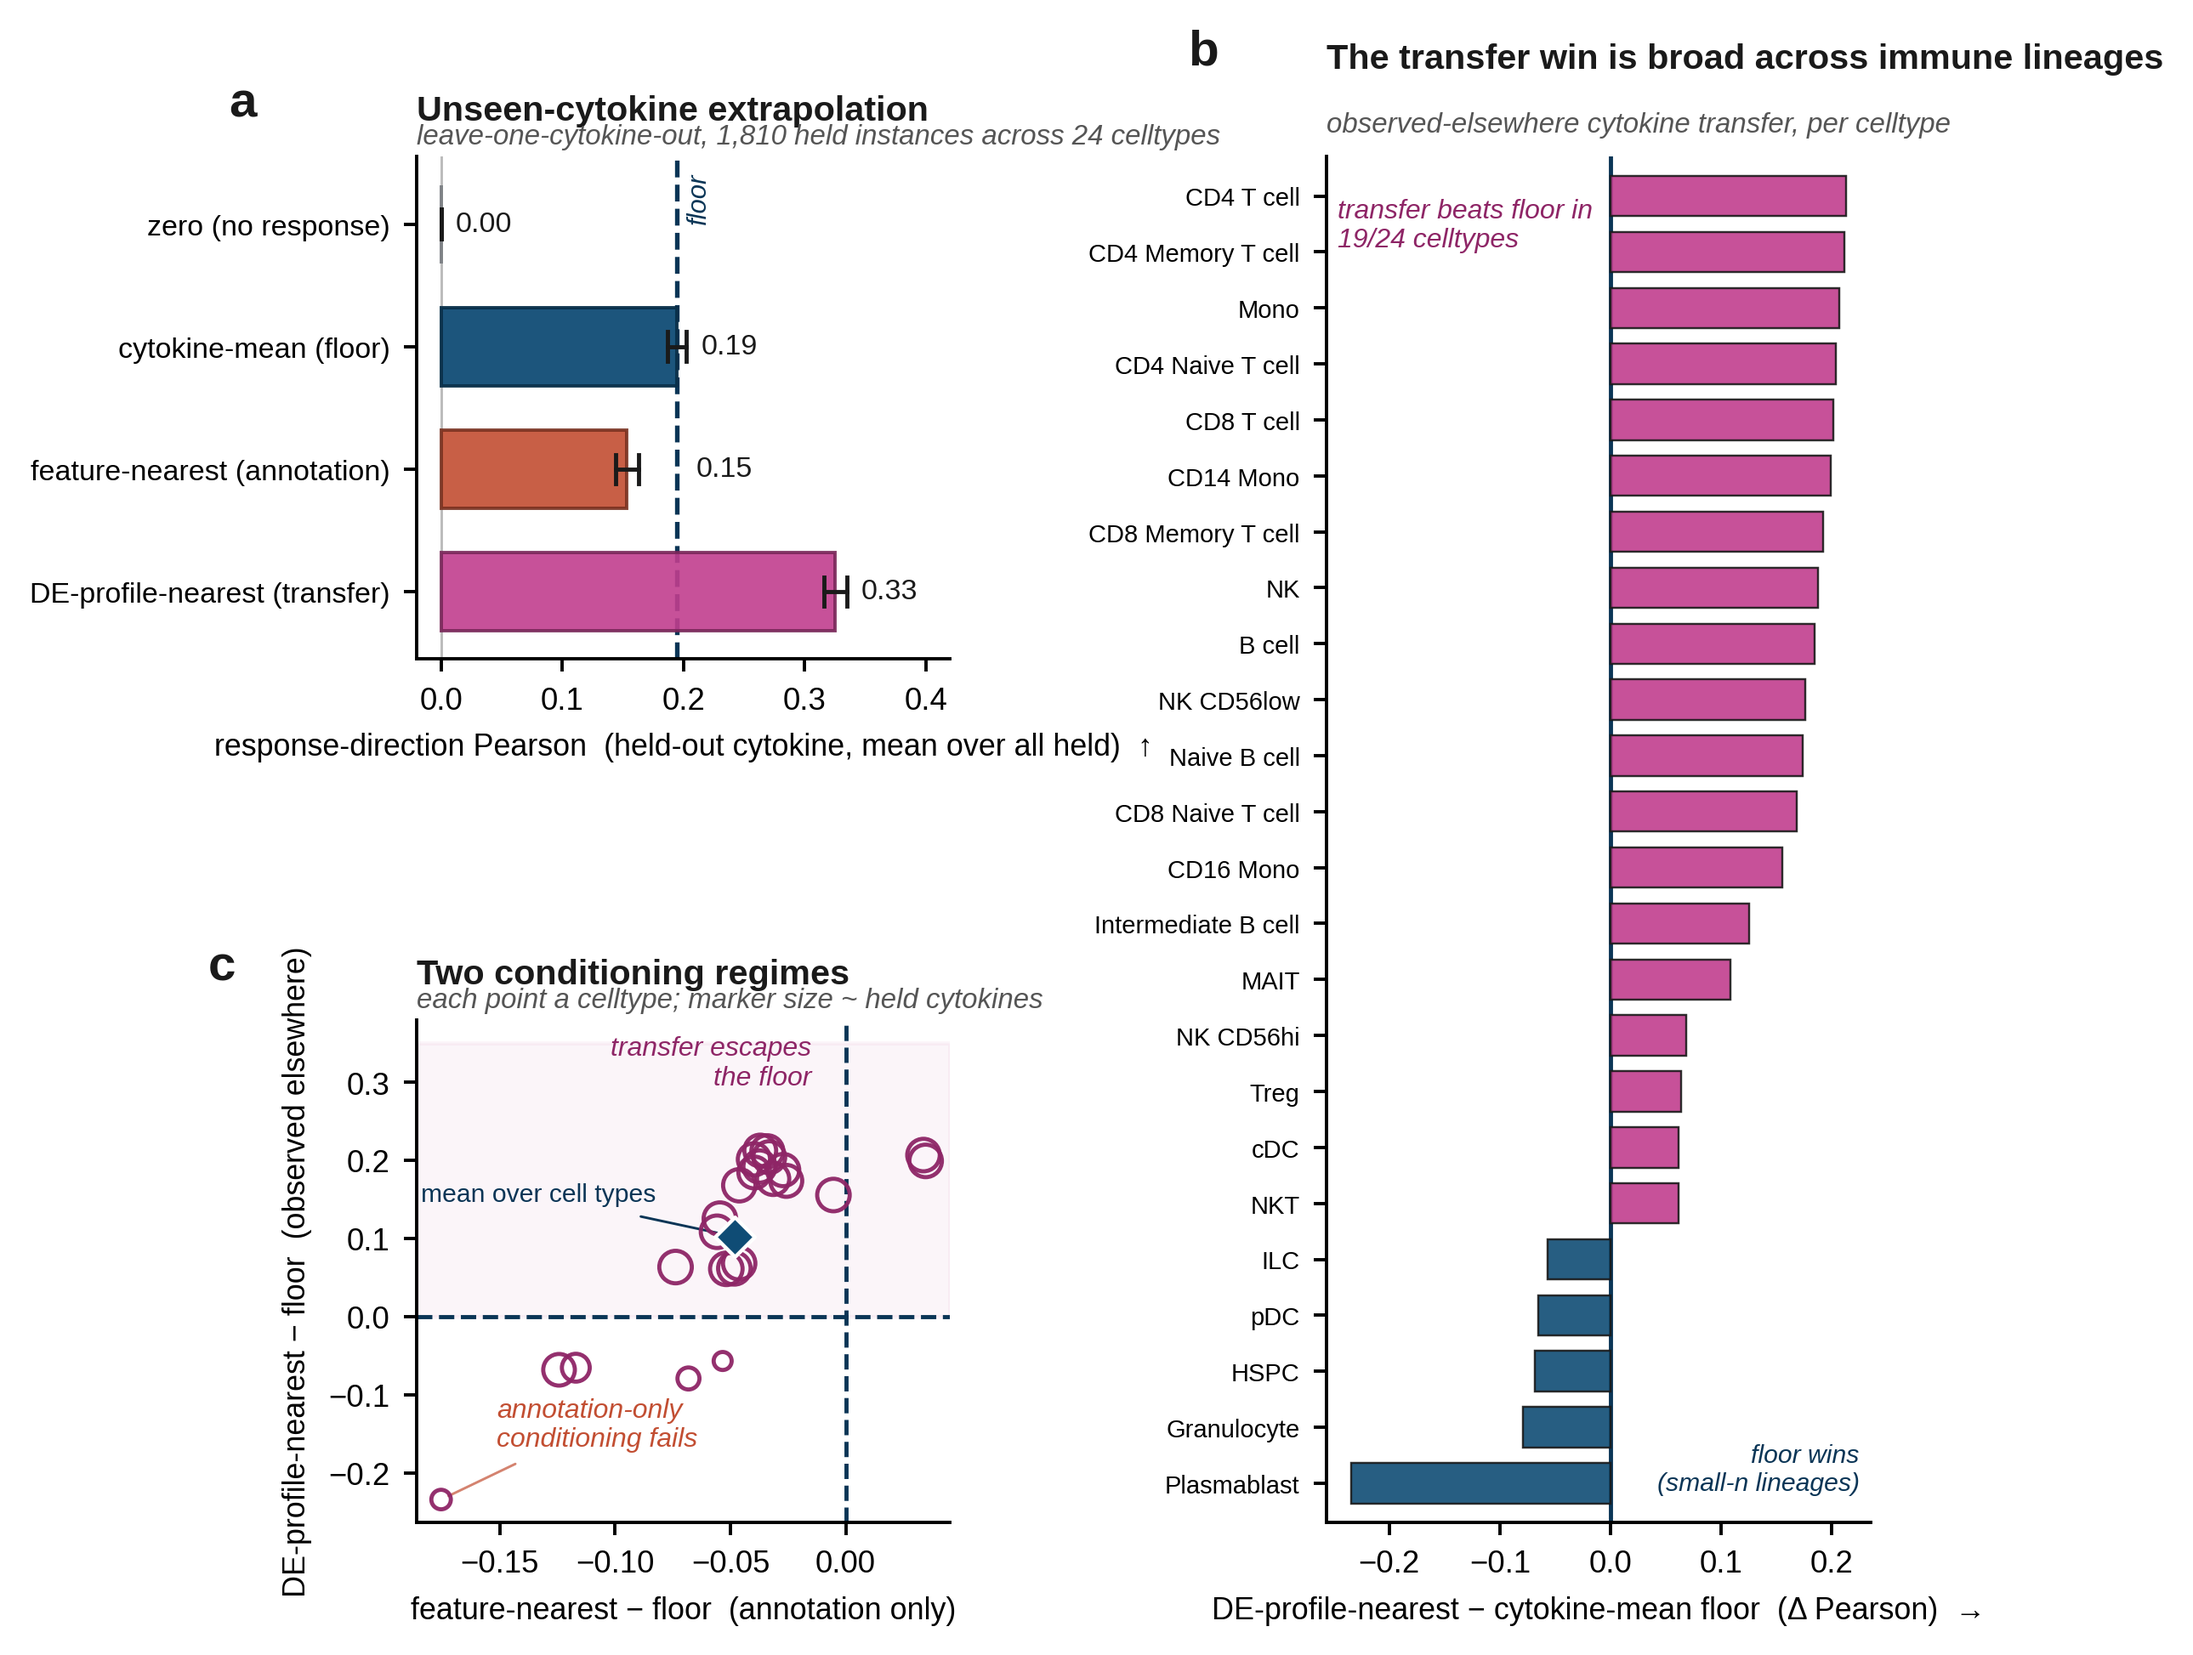
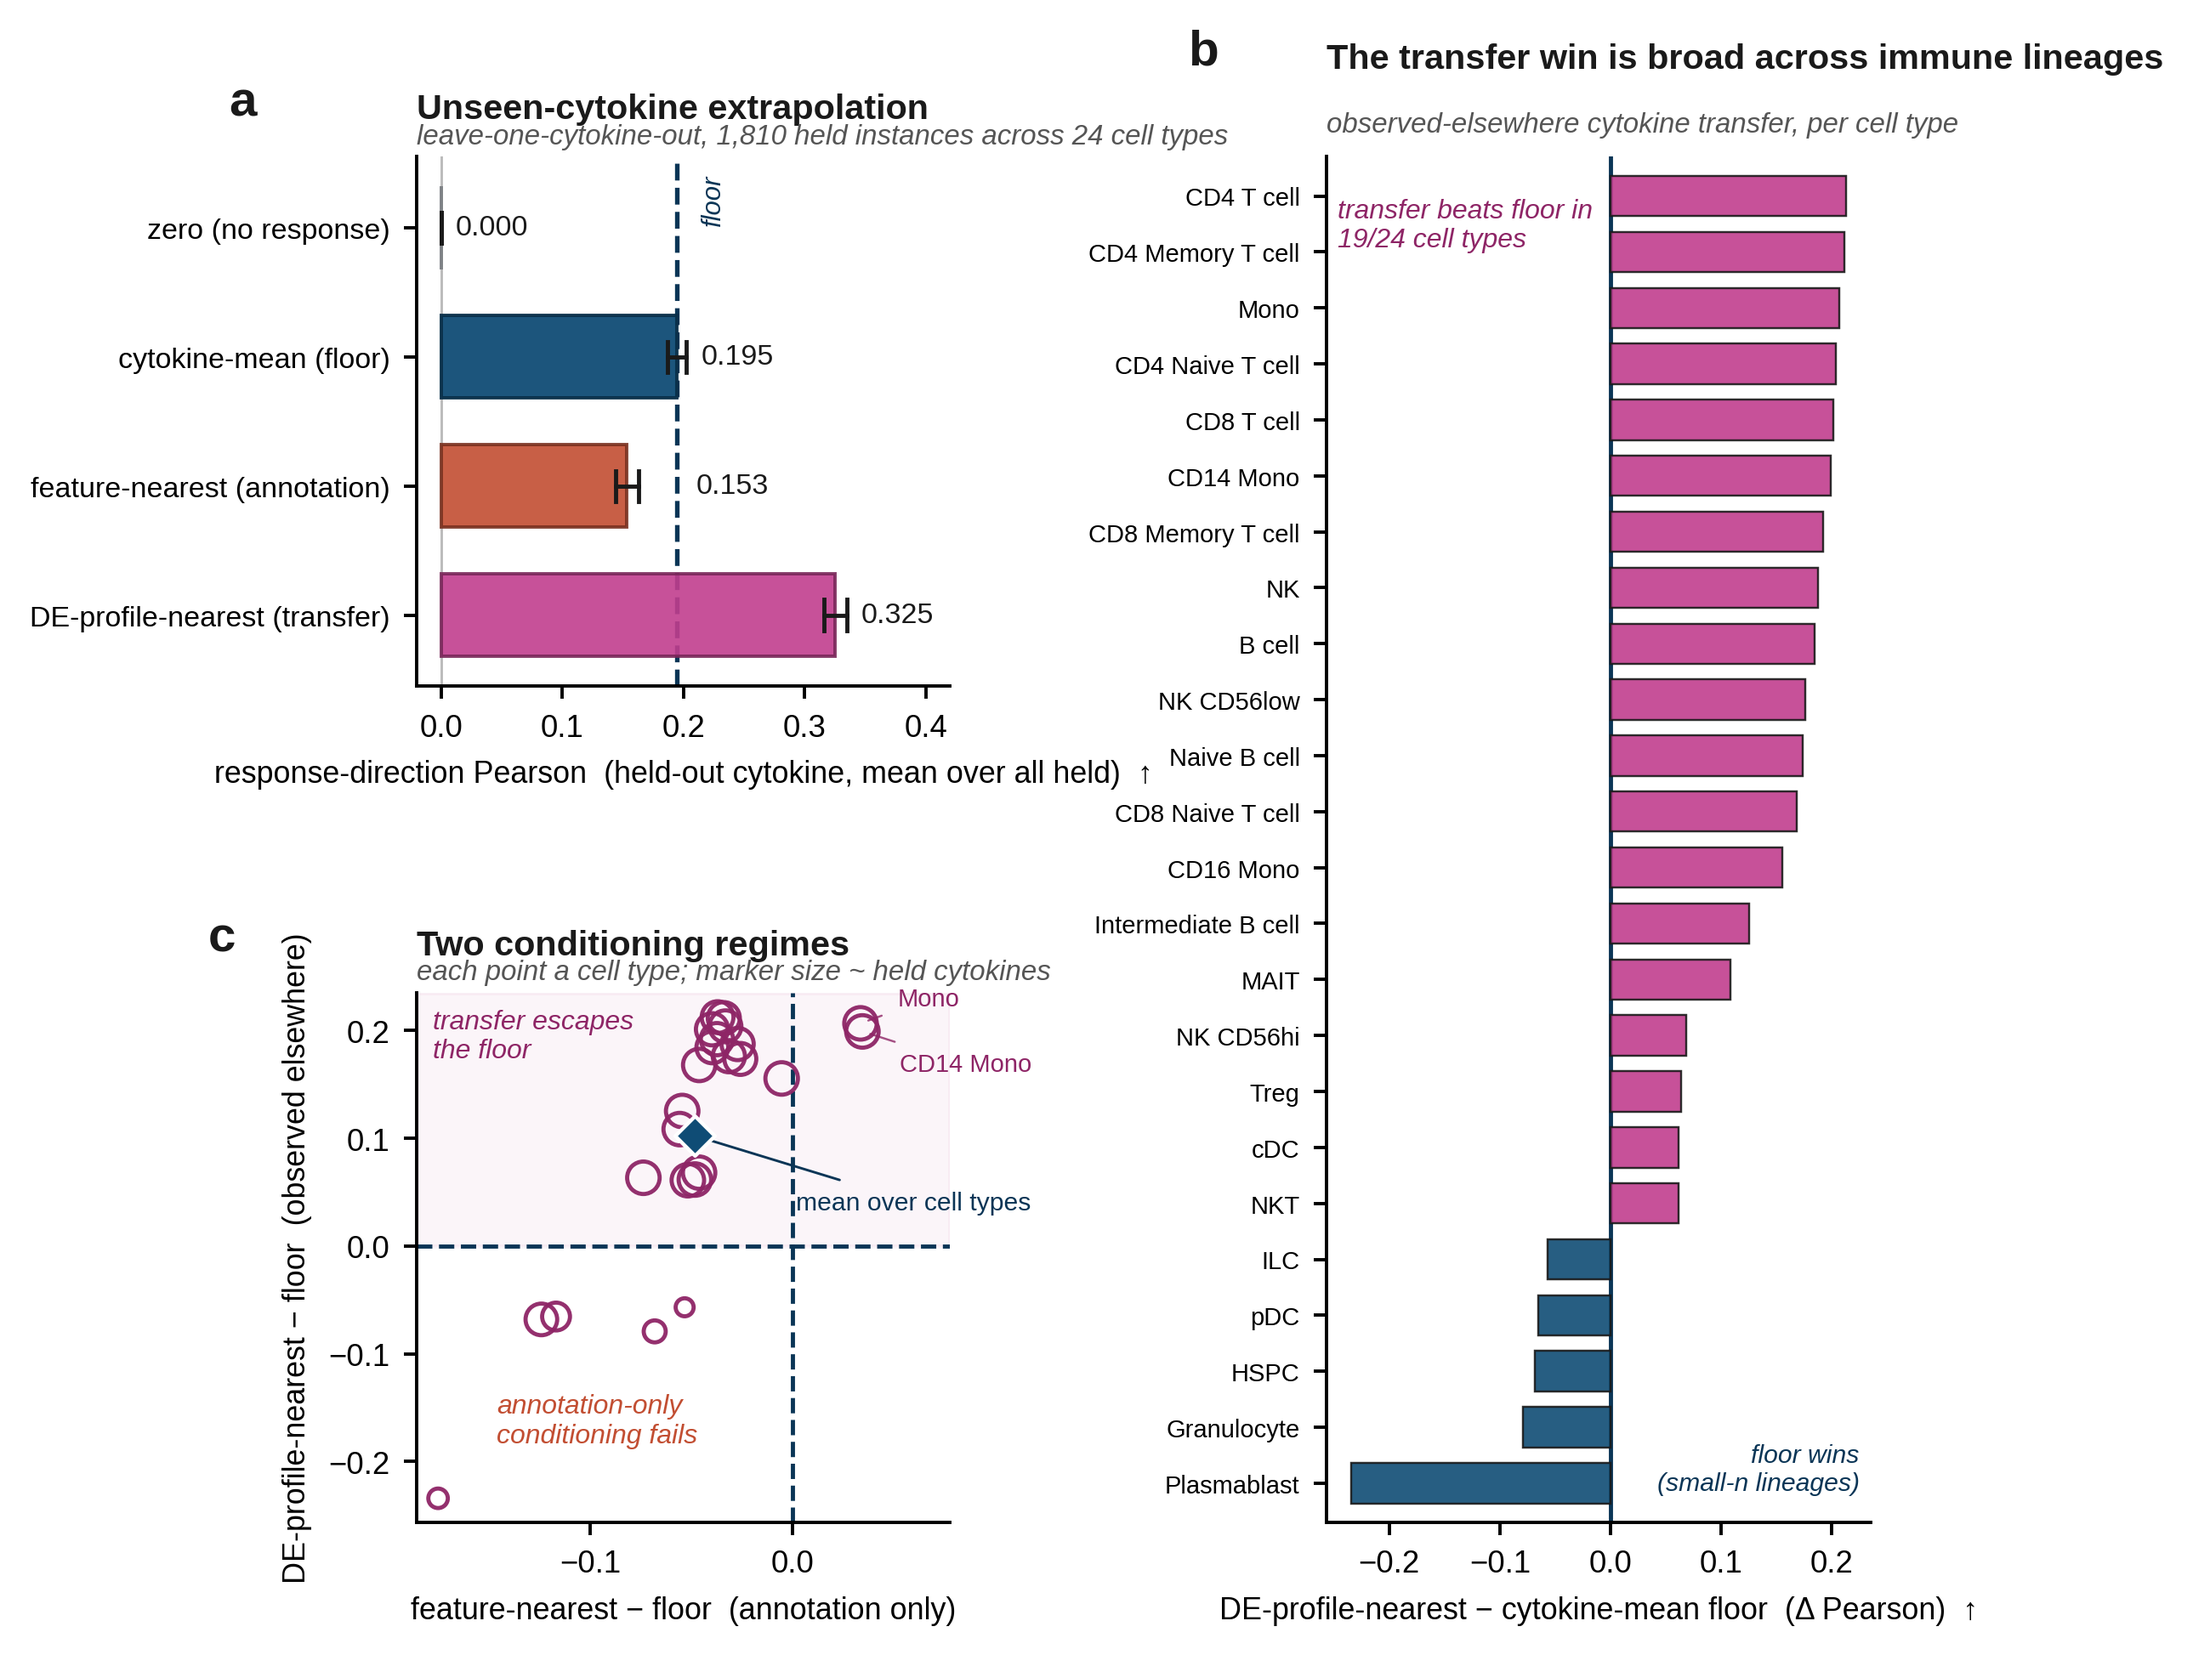
Figure S7: six places a reader could not read what the panel claims
Panel (c) states "2 of 24" cell types clear both floors. Those two are Mono
(+0.034, +0.207) and CD14 Mono (+0.035, +0.199) -- 0.0009 apart in x, 0.0075 in
y, and with 87 held cytokines each they draw at the same radius, so the pair
printed as one thick ring and the count could not be checked. Neither axis can
be dodged; the right limit is opened and both rings are named.

The orange leader for "annotation-only conditioning fails" ended on the single
Plasmablast outlier while the sentence describes the 22 of 24 points left of
zero. A quadrant label needs no leader, so it has none. The navy leader to the
mean diamond crossed the MAIT ring on its way; it now runs into empty space.

The pink quadrant band stopped at a hardcoded 0.35 inside axes that reach 0.38,
leaving a hard-edged white strip under a panel with no top spine -- an edge that
reads as a threshold. It is drawn to the axis limit.

Panel (a) printed the floor as 0.19 while the caption and the legend gate both
carry 0.195, and its rotated "floor" label started 1.6 pt from the rule it
names. Three decimals, and 4 pt of clearance.

hspace 0.72 left an 11% band of the left column empty beside a full-height
panel (b). The panels say "cell type" now, as the caption does, and panel (b)
marks better-is-higher with the same arrow panel (a) uses.

diff --git a/scripts/figure_newdata_cytokine_loco.py b/scripts/figure_newdata_cytokine_loco.py
@@ -79,7 +79,9 @@ def main():
     # shortening the panels would push both onto the axes -- the height stays.
     fig = plt.figure(figsize=(6.6, 5.4))
     gs = fig.add_gridspec(2, 2, width_ratios=[1.0, 1.02], height_ratios=[1.0, 1.0],
-                          wspace=0.70, hspace=0.72,
+                          # 0.72 left a 0.53 in strip of the left column completely empty
+                          # between (a) and (c) while (b) ran full height beside it.
+                          wspace=0.70, hspace=0.58,
                           left=0.245, right=0.985, top=0.925, bottom=0.075)
     axA = fig.add_subplot(gs[0, 0])     # pooled bars — top-left
     axC = fig.add_subplot(gs[1, 0])     # two conditioning regimes — bottom-left
@@ -115,11 +117,14 @@ def main():
         lab_x = max(hi, m) + 0.012
         if floor_m - 0.035 < lab_x < floor_m + 0.012:
             lab_x = floor_m + 0.016
-        axA.text(lab_x, y, _u(f"{m:.2f}"),
+        # Two decimals printed the floor as 0.19 against the caption's 0.195; three decimals is
+        # the project's rounding, and the widest label still ends 0.02 inside the right limit.
+        axA.text(lab_x, y, _u(f"{m:.3f}"),
                  va="center", ha="left",
                  fontsize=7.0, color=INK)  # _u here IS correct: a formatted, sign-sensitive number
     axA.axvline(floor_m, color=NAVY_DARK, lw=1.1, ls="--", zorder=2)
-    axA.text(floor_m + 0.008, len(rows) - 0.58, "floor", rotation=90, va="top", ha="left",
+    # +0.008 left 1.6 pt between the glyphs and the dashed rule, which reads as one object.
+    axA.text(floor_m + 0.020, len(rows) - 0.58, "floor", rotation=90, va="top", ha="left",
              fontsize=6.4, color=NAVY_DARK, style="italic")
     axA.axvline(0, color="#bbb", lw=0.6, zorder=1)
     # method names + axis text below are compound words (cytokine-mean, feature-nearest,
@@ -133,7 +138,7 @@ def main():
                    fontsize=7.4)
     panel_title(axA, "a", "Unseen-cytokine extrapolation",
                 sub=f"leave-one-cytokine-out, {summ['n_held_cytokine_instances']:,} held instances "
-                    f"across {summ['n_celltypes_tested']} celltypes", x_letter=-0.30)
+                    f"across {summ['n_celltypes_tested']} cell types", x_letter=-0.30)
     despine(axA)
 
     # ================= (b) per-celltype paired gap =================
@@ -154,13 +159,13 @@ def main():
     n_pos = int((pc["gap"] > 0).sum())
     # "−" here is a real subtraction (DE-profile-nearest minus the floor); the two method names
     # either side of it keep plain hyphens as compound words.
-    axB.set_xlabel("DE-profile-nearest − cytokine-mean floor  (Δ Pearson)  →",
+    axB.set_xlabel("DE-profile-nearest − cytokine-mean floor  (Δ Pearson)  ↑",
                    fontsize=7.4)
     # Each note goes beside the rows it describes, in the empty half of those rows. The winning
     # rows have bars running RIGHT from zero, so their free space is on the left; the losing rows
     # run left, so theirs is on the right. Putting both notes on one side, as before, meant one of
     # them always sat either on the bars or beside the wrong rows.
-    axB.text(0.02, 0.97, f"transfer beats floor in\n{n_pos}/{len(pc)} celltypes",
+    axB.text(0.02, 0.97, f"transfer beats floor in\n{n_pos}/{len(pc)} cell types",
              transform=axB.transAxes, ha="left", va="top", fontsize=6.6,
              color=CONDITIONED_DARK, style="italic")
     # It used to sit at y=0.96, beside CD4 T cell and CD4 Memory T cell -- the two largest
@@ -168,7 +173,7 @@ def main():
     axB.text(0.98, 0.02, "floor wins\n(small-n lineages)", transform=axB.transAxes,
              ha="right", va="bottom", fontsize=6.2, color=NAVY_DARK, style="italic")
     panel_title(axB, "b", "The transfer win is broad across immune lineages",
-                sub="observed-elsewhere cytokine transfer, per celltype", x_letter=-0.20)
+                sub="observed-elsewhere cytokine transfer, per cell type", x_letter=-0.20)
     despine(axB)
 
     # ================= (c) the two conditioning regimes =================
@@ -179,7 +184,9 @@ def main():
     axC.axhline(0, color=NAVY_DARK, lw=1.0, ls="--", zorder=1)
     axC.axvline(0, color=NAVY_DARK, lw=1.0, ls="--", zorder=1)
     # shaded quadrants
-    axC.axhspan(0, 0.35, xmin=0.0, xmax=1.0, color=CONDITIONED, alpha=0.05, zorder=0)
+    # 0.35 was a hardcoded top inside axes that reach 0.38, so a hard-edged white strip sat
+    # between the band and the panel top -- on a panel with no top spine, that edge reads as a
+    # threshold the data respects. The band is drawn after the data, to the axis limit.
     # Filled and near-opaque, two coincident cell types printed as one marker -- and the two that
     # clear the floor (CD14 Mono and Mono, 0.001 apart in x and 0.008 in y) are the caption's own
     # "2 of 24". A light fill with a solid edge keeps the size encoding and shows both rings.
@@ -191,26 +198,46 @@ def main():
                 linewidth=1.0, alpha=0.95, zorder=4)
     axC.scatter([np.mean(g_ft)], [np.mean(g_de)], marker="D", s=46, c=NAVY,
                 edgecolor="white", linewidth=0.9, zorder=6)
+    # Up and left, the leader crossed the MAIT ring on its way to the diamond. Down and right
+    # of the mean the panel is empty, so nothing is drawn over.
     axC.annotate("mean over cell types", xy=(np.mean(g_ft), np.mean(g_de)),
-                 xytext=(np.mean(g_ft) - 0.085, np.mean(g_de) + 0.045), fontsize=6.2,
-                 color=NAVY_DARK, ha="center",
+                 xytext=(np.mean(g_ft) + 0.050, np.mean(g_de) - 0.062), fontsize=6.2,
+                 color=NAVY_DARK, ha="left", va="center",
                  arrowprops=dict(arrowstyle="-", color=NAVY_DARK, lw=0.6))
+    # The caption counts "2 of 24" to the right of the zero line. Those two are Mono
+    # (+0.034, +0.207) and CD14 Mono (+0.035, +0.199): 0.0009 apart in x, 0.0075 in y, and with
+    # 87 held cytokines each they draw at the SAME radius, so the pair printed as one thick ring
+    # and the count could not be checked. Neither axis can be dodged -- both are measured -- so
+    # the right limit is opened and each ring is named, which is what the count needs.
+    axC.set_xlim(right=max(0.078, axC.get_xlim()[1]))
+    for _nm, _dy in (("Mono", 6), ("CD14 Mono", -8)):
+        _i = int(np.argmax(per_ct["celltype"].values == _nm.replace(" ", "_")))
+        axC.annotate(_nm, xy=(g_ft[_i], g_de[_i]), xytext=(9, _dy),
+                     textcoords="offset points", ha="left", va="center", fontsize=6.0,
+                     color=CONDITIONED_DARK,
+                     arrowprops=dict(arrowstyle="-", color=CONDITIONED_DARK, lw=0.5, alpha=0.8))
     # Anchored to the panel's right edge, this sat across the dashed zero line at x=0.00 on the
     # narrower plate. It is placed just right of that line instead, in the quadrant it names.
-    axC.text(0.74, 0.97, "transfer escapes\nthe floor", transform=axC.transAxes, ha="right",
+    # Opening the right limit for the Mono labels moved the ring cluster under this text. Every
+    # point with y above 0.19 sits right of x = -0.05, so the band's top-LEFT corner is the one
+    # corner of the quadrant that is empty.
+    axC.text(0.03, 0.97, "transfer escapes\nthe floor", transform=axC.transAxes, ha="left",
              va="top", fontsize=6.6, color=CONDITIONED_DARK, style="italic")
     # The Plasmablast outlier sits at the extreme bottom-left corner of the panel (the widest
     # gap in both x and y), exactly where this label used to anchor — text landed on top of the
     # marker. Moved up and right, clear of the point, with a short leader back to it.
-    axC.annotate("annotation-only\nconditioning fails", xy=(g_ft.min(), g_de.min()),
-                 xytext=(0.15, 0.14), textcoords="axes fraction",
-                 ha="left", va="bottom", fontsize=6.6, color=CLAY_DARK, style="italic",
-                 arrowprops=dict(arrowstyle="-", color=CLAY_DARK, lw=0.6, alpha=0.7))
+    # The leader ended on the single Plasmablast outlier, but the sentence describes the 22 of
+    # 24 cell types left of the zero line. A quadrant label needs no leader.
+    axC.text(0.15, 0.14, "annotation-only\nconditioning fails", transform=axC.transAxes,
+             ha="left", va="bottom", fontsize=6.6, color=CLAY_DARK, style="italic")
     # same convention: real subtraction "−" between method and floor, plain hyphens within names.
     axC.set_xlabel("feature-nearest − floor  (annotation only)", fontsize=7.4)
     axC.set_ylabel("DE-profile-nearest − floor  (observed elsewhere)", fontsize=7.4)
+    _y0, _y1 = axC.get_ylim()
+    axC.axhspan(0, _y1, xmin=0.0, xmax=1.0, color=CONDITIONED, alpha=0.05, zorder=0)
+    axC.set_ylim(_y0, _y1)
     panel_title(axC, "c", "Two conditioning regimes",
-                sub="each point a celltype; marker size ~ held cytokines", x_letter=-0.34)
+                sub="each point a cell type; marker size ~ held cytokines", x_letter=-0.34)
     despine(axC)
 
     # NOTE: the long methods footnote that used to sit under the plate is intentionally NOT drawn
